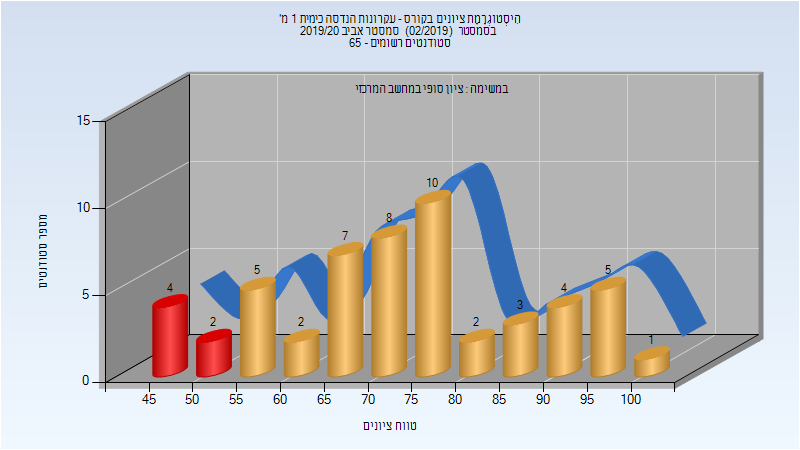
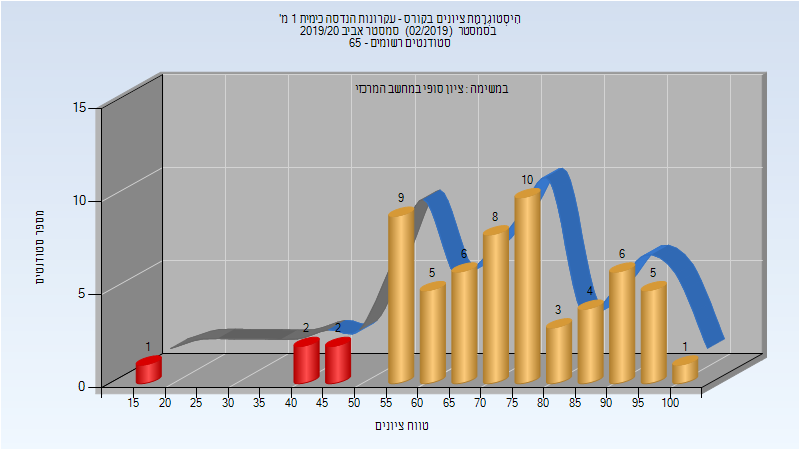
Deploy michael-maltsev/technion-histograms to github.com/michael-maltsev/technion-histograms.git:gh-pages

Changed region(s): [[0.0938, 0.1556, 0.9688, 0.9022], [0.0312, 0.4667, 0.0625, 0.6533], [0.4375, 0.9333, 0.5312, 0.9644]]

diff --git a/054203/index.html b/054203/index.html
@@ -551,12 +551,12 @@
 </thead>
 <tbody>
 <tr>
-<td>53</td>
-<td>47/6</td>
-<td>89</td>
-<td>45</td>
+<td>62</td>
+<td>57/5</td>
+<td>92</td>
+<td>16</td>
 <td>100</td>
-<td>73.623</td>
+<td>72.516</td>
 <td>74</td>
 </tr>
 </tbody>

diff --git a/054203/README.md b/054203/README.md
@@ -172,5 +172,5 @@
 
 | סטודנטים | עברו/נכשלו | אחוז עוברים | ציון מינימלי | ציון מקסימלי | ממוצע | חציון |
 | ---- | ---- | ---- | ---- | ---- | ---- | ---- |
-| 53 | 47/6 | 89 | 45 | 100 | 73.623 | 74 |
+| 62 | 57/5 | 92 | 16 | 100 | 72.516 | 74 |
 
